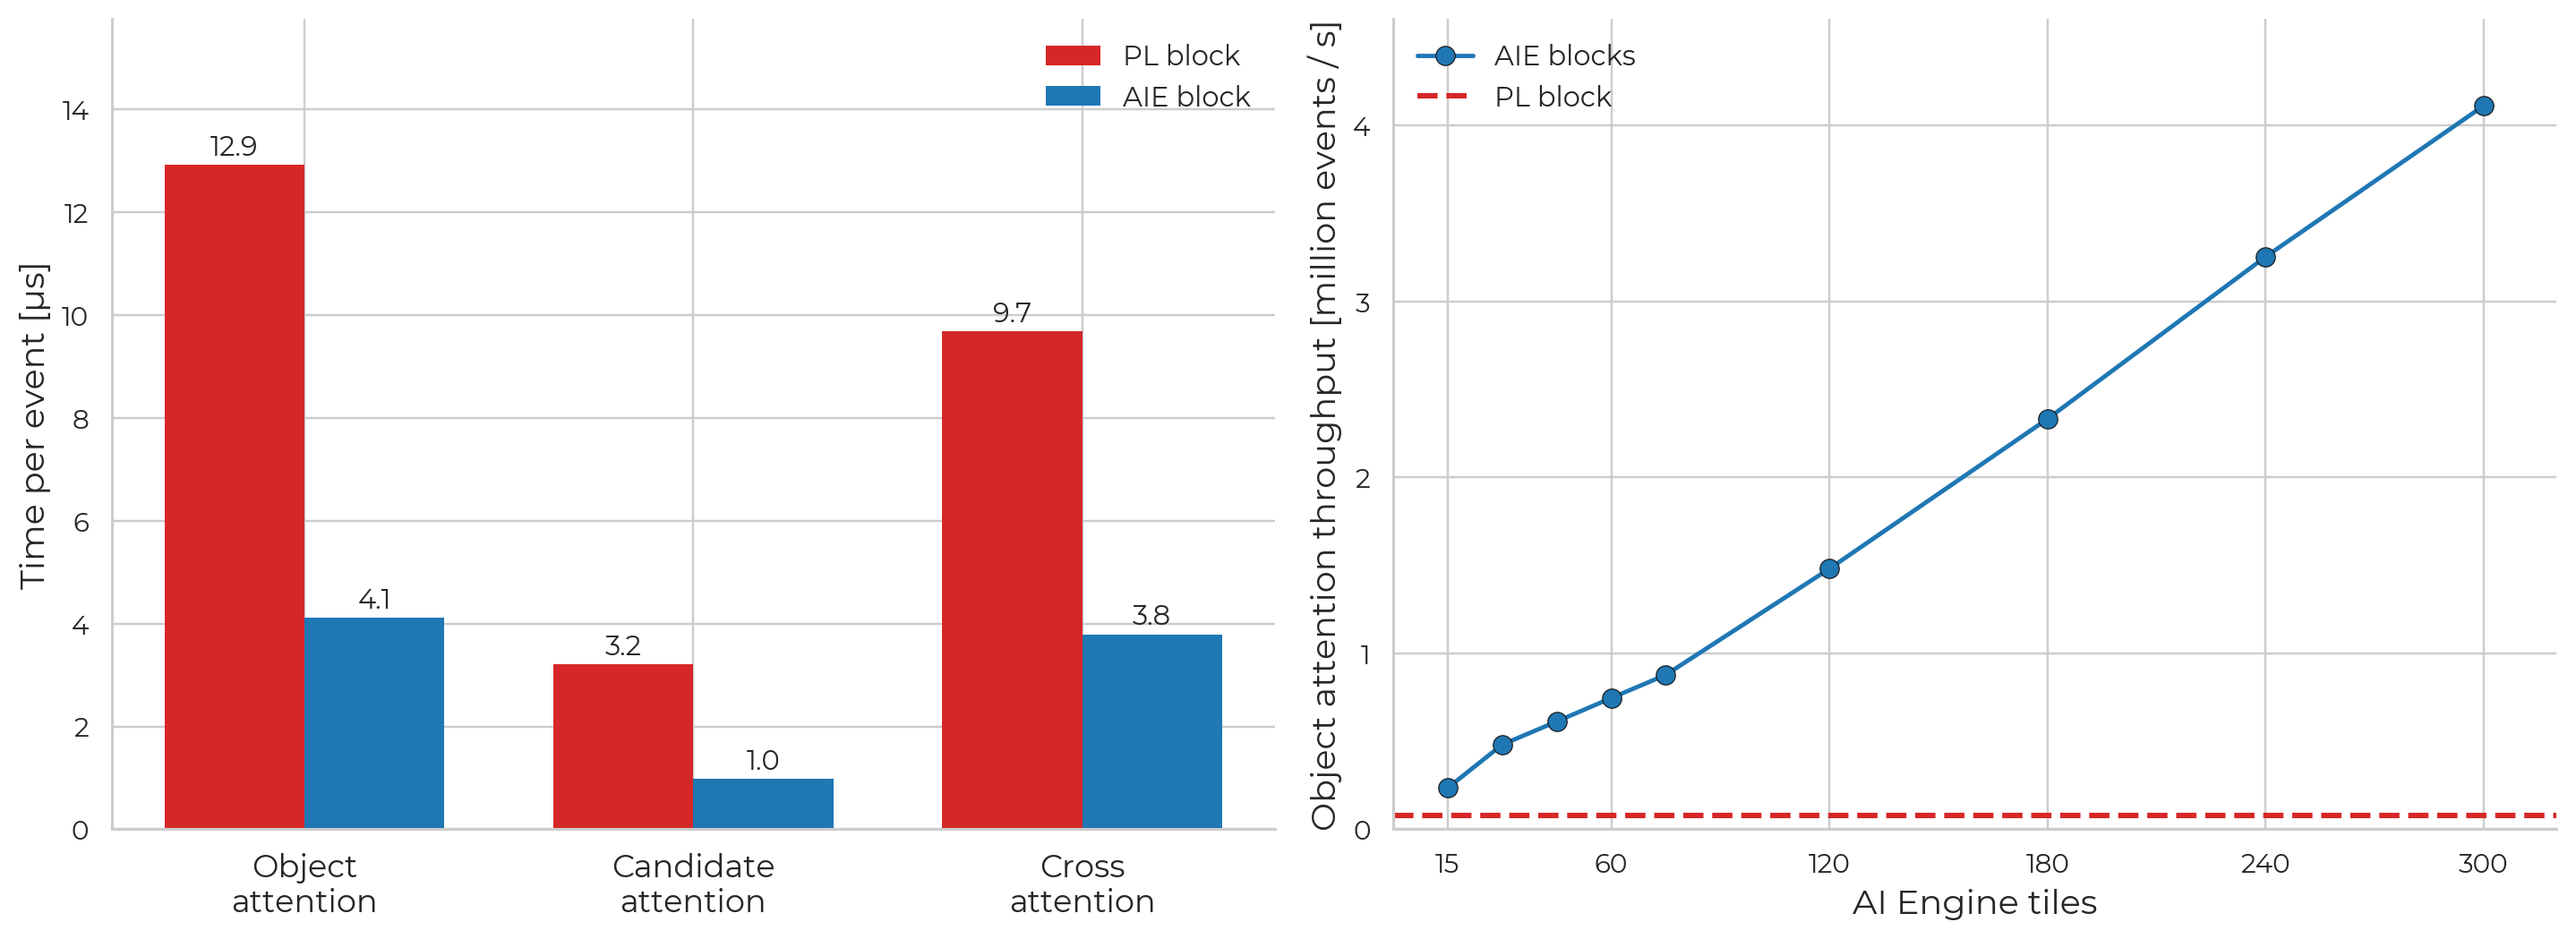
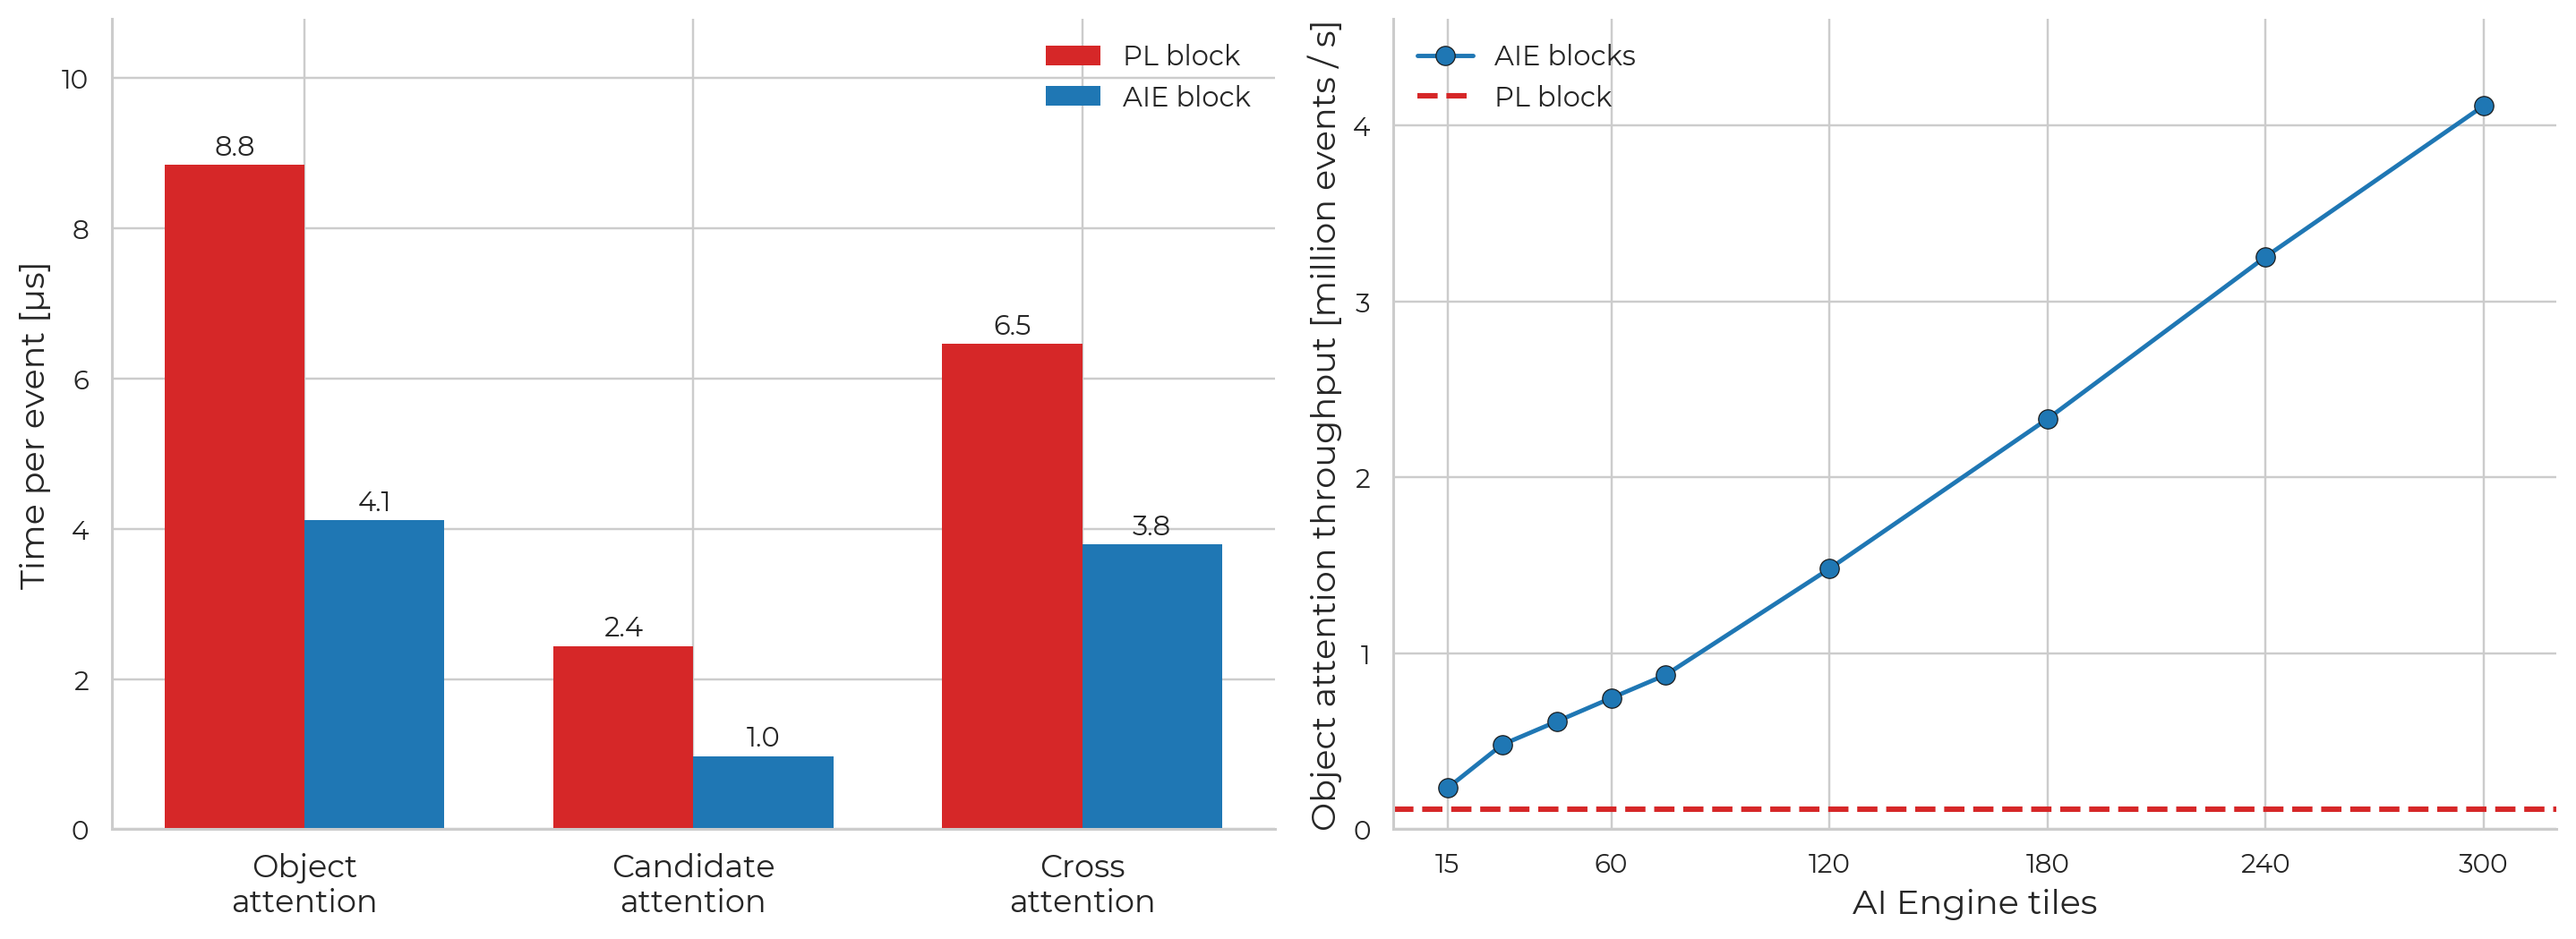
fig: block panel PL bars remeasured with the t2l fabric flags
pl_attn_v4 (t2l flags, 156.25 MHz, WNS +0.359, md5 a6ed7a3b): object 8.8,
candidate 2.4, cross 6.5 us/event (t2k flags: 12.9 / 3.2 / 9.7). The array
blocks stay at 4.1 / 1.0 / 3.8, so the object block is now 2.1x on both the
block panel and the stage breakdown.

diff --git a/scripts/make_throughput_charts.py b/scripts/make_throughput_charts.py
@@ -96,7 +96,7 @@ def fig_blocks_and_scaling():
     HYB_INTERVAL = 111.0
     xs = np.arange(len(blocks))
     import json, os
-    _bi = "/home/snehadri/aie_scratch_save_20260810/block_intervals_v5.json"   # blocks3_v2 + pl_attn_v3
+    _bi = "/home/snehadri/aie_scratch_save_20260810/block_intervals_t2l.json"   # blocks3_v2 (array, v5 flags) + pl_attn_v4 (fabric, t2l flags)
     aie_us = None
     if os.path.isfile(_bi):
         _d = json.load(open(_bi))
